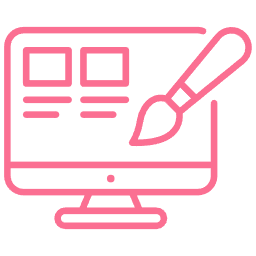
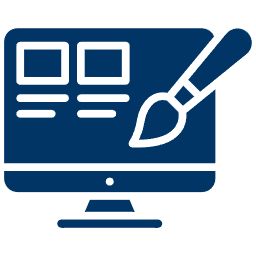
Theme Changed

diff --git a/src/components/sections/Hero.jsx b/src/components/sections/Hero.jsx
@@ -7,7 +7,7 @@ export default function Hero() {
         <div className='w-full flex flex-col lg:flex-row justify-center lg:justify-between items-center mt-10 sm:mt-0'>
             <div className='p-10'>
                 <h1 className='text-3xl font-bold'>
-                    Hi, I'm <span className='text-customPink1'>Fatma Gamal</span>
+                    Hi, I'm <span className='text-customYellow1'>Fatma Gamal</span>
                 </h1>
                 <h2 className='text-2xl font-semibold'>
                     FrontEnd Developer | React.js
@@ -21,15 +21,15 @@ export default function Hero() {
              <div  className='relative  mt-24 sm:mt-36 mr-0 sm:mr-36 w-full'>
                 <div className='flex justify-center items-center '>
                     <div className='group hover:animate-flipX relative flex justify-center items-center'>
-<div className='bg-customPink1 w-52 h-52 lg:w-72 lg:h-72 rounded-full relative'></div>
-                    <div className='bg-customBlue5 w-44 h-44 lg:w-64 lg:h-64 rounded-full absolute'><img src={avatar} alt="" className='w-52 lg:w-80 absolute z-20' style={{ clipPath: "circle(50% at 50% 50%)" }}/>
+<div className='bg-customBlue1 w-52 h-52 lg:w-72 lg:h-72 rounded-full relative'></div>
+                    <div className='bg-[#e7ecef] w-44 h-44 lg:w-64 lg:h-64 rounded-full absolute'><img src={avatar} alt="" className='w-52 lg:w-80 absolute z-20' style={{ clipPath: "circle(50% at 50% 50%)" }}/>
 </div>
                     </div>
                     
 {Array.from({ length: 9 }).map((_, i) => (
   <div
     key={i}
-    className=" absolute bg-[#ffd60a] hover:bg-yellow-200- w-1 h-32 bottom-0 origin-bottom transform animate-pulse "
+    className=" absolute bg-customYellow1 hover:bg-customYellow2 w-1 h-32 bottom-0 origin-bottom transform animate-pulse "
     style={{
       transform: `rotate(${i * (180 / (9 - 1)) - 90}deg) translateY(-150px) `,
       top: "0",
@@ -44,8 +44,8 @@ export default function Hero() {
 
         </div>
         <div className='p-10 flex justify-evenly items-center w-full lg:w-[30%] mt-0 lg:-mt-28'>
-            <a href='/Fatma.pdf' target='_blank' className=" text-gray-800 bg-customBlue5 hover:bg-customBlue1 focus:ring-4 focus:ring-blue-300 font-medium rounded-lg text-sm px-5 py-2.5 me-2 mb-2 dark:bg-blue-600 dark:hover:bg-blue-700 focus:outline-none dark:focus:ring-blue-800">Resume</a>
-            <a href='mailto:fatmagmoubarak@gmail.com' className="text-white bg-[#ffbd00] hover:bg-[#f4d172] focus:ring-4 focus:ring-blue-300 font-medium rounded-lg text-sm px-6 py-2.5 me-2 mb-2 dark:bg-blue-600 dark:hover:bg-blue-700 focus:outline-none dark:focus:ring-blue-800">
+            <a href='/Fatma.pdf' target='_blank' className=" text-white bg-customBlue5 hover:bg-customBlue4 focus:ring-4 focus:ring-blue-300 font-medium rounded-lg text-sm px-5 py-2.5 me-2 mb-2 dark:bg-blue-600 dark:hover:bg-blue-700 focus:outline-none dark:focus:ring-blue-800">Resume</a>
+            <a href='mailto:fatmagmoubarak@gmail.com' className="text-white bg-customYellow1 hover:bg-customYellow2 focus:ring-4 focus:ring-blue-300 font-medium rounded-lg text-sm px-6 py-2.5 me-2 mb-2 dark:bg-blue-600 dark:hover:bg-blue-700 focus:outline-none dark:focus:ring-blue-800">
                 
                 Let's Talk
                 <FaArrowRight className='inline ml-1'/>

diff --git a/src/components/sections/Projects.jsx b/src/components/sections/Projects.jsx
@@ -46,7 +46,7 @@ export default function Projects() {
         <div className="flex justify-center items-center">
             <button
             onClick={viewPrevious}
-            className='w-12 h-12 rounded-full bg-customPink1 flex justify-center items-center hover:transition-transform hover:scale-110 duration-300 hover:bg-customPink3 mt-[5%]'>
+            className='w-12 h-12 rounded-full bg-customBlue5 flex justify-center items-center hover:transition-transform hover:scale-110 duration-300 hover:bg-customBlue4 mt-[5%]'>
                 <FaArrowLeft className="text-white"/>
             </button>
             <AnimatePresence mode="wait">
@@ -62,7 +62,7 @@ export default function Projects() {
                 <h2 className="text-xl font-bold text-center">{currentProject?.title}</h2>
                 <h3 className="text-lg font-semibold mt-3 text-center">{currentProject?.description}</h3>
                 <div className='p-0 sm:p-10 mt-5 sm:mt-0 flex justify-evenly items-center w-full'>
-            <a href={currentProject?.githubLink} target='_blank' rel="noopener noreferrer" className="z-30 text-gray-800 bg-customBlue5 hover:bg-customBlue1 focus:ring-4 focus:ring-blue-300 font-medium rounded-lg text-sm px-5 py-2.5 me-2 mb-2 dark:bg-blue-600 dark:hover:bg-blue-700 focus:outline-none dark:focus:ring-blue-800">GitHub</a>
+            <a href={currentProject?.githubLink} target='_blank' rel="noopener noreferrer" className="z-30 text-white bg-customBlue5 hover:bg-customBlue4 focus:ring-4 focus:ring-blue-300 font-medium rounded-lg text-sm px-5 py-2.5 me-2 mb-2 dark:bg-blue-600 dark:hover:bg-blue-700 focus:outline-none dark:focus:ring-blue-800">GitHub</a>
             <a href={currentProject?.demoLink} target="_blank" rel="noopener noreferrer" className="text-white z-30 bg-[#ffbd00] hover:bg-[#f4d172] focus:ring-4 focus:ring-blue-300 font-medium rounded-lg text-sm px-6 py-2.5 me-2 mb-2 dark:bg-blue-600 dark:hover:bg-blue-700 focus:outline-none dark:focus:ring-blue-800">
                 
                 Watch Demo
@@ -77,7 +77,7 @@ export default function Projects() {
                 
                         <button
                         onClick={viewNext}
-                        className='w-12 h-12 rounded-full bg-customPink1 flex justify-center items-center hover:transition-transform hover:scale-110 duration-300 hover:bg-customPink3 mt-[5%]'>
+                        className='w-12 h-12 rounded-full bg-customBlue5 flex justify-center items-center hover:transition-transform hover:scale-110 duration-300 hover:bg-customBlue4 mt-[5%]'>
                 <FaArrowRight className="text-white"/>
             </button>
         </div>

diff --git a/src/components/sections/Connect.jsx b/src/components/sections/Connect.jsx
@@ -18,11 +18,11 @@ export default function Connect() {
                 <FaArrowRight className='inline ml-1'/>
 
                 </a>
-                <div className="w-[70%] lg:w-[40%] bg-[#ea638c] bg-opacity-50 drop-shadow-xl flex justify-evenly items-center rounded-2xl px-5 py-4 gap-x-1 lg:gap-x-0">
-                    <a href="https://www.facebook.com/share/19c7ZAk116/?mibextid=wwXIfr" target="_blank"><FaFacebook className="inline text-[50px] text-customPink5 hover:text-white"/></a>
-                    <a href="https://www.instagram.com/fatmaa.mubarak?igsh=dGthYmNnaWJveHJ2&utm_source=qr" target="_blank"><FaInstagram className="inline text-[50px] text-customPink5 hover:text-white"/></a>
-                    <a href="https://www.linkedin.com/in/fatma-mubarak-85a46630b" target="_blank"><FaLinkedin className="inline text-[50px] text-customPink5 hover:text-white"/></a>
-                    <a href="https://github.com/FatmaGMubarak" target="_blank"><FaGithub className="inline text-[50px] text-customPink5 hover:text-white"/></a>
+                <div className="w-[70%] lg:w-[40%] bg-customBlue2 bg-opacity-50 drop-shadow-xl flex justify-evenly items-center rounded-2xl px-5 py-4 gap-x-1 lg:gap-x-0">
+                    <a href="https://www.facebook.com/share/19c7ZAk116/?mibextid=wwXIfr" target="_blank"><FaFacebook className="inline text-[50px] text-customBlue5 hover:text-customBlue4"/></a>
+                    <a href="https://www.instagram.com/fatmaa.mubarak?igsh=dGthYmNnaWJveHJ2&utm_source=qr" target="_blank"><FaInstagram className="inline text-[50px] text-customBlue5 hover:text-customBlue4"/></a>
+                    <a href="https://www.linkedin.com/in/fatma-mubarak-85a46630b" target="_blank"><FaLinkedin className="inline text-[50px] text-customBlue5 hover:text-customBlue4"/></a>
+                    <a href="https://github.com/FatmaGMubarak" target="_blank"><FaGithub className="inline text-[50px] text-customBlue5 hover:text-customBlue4"/></a>
 
                 </div>
     </div>

diff --git a/src/components/sections/NavBar.jsx b/src/components/sections/NavBar.jsx
@@ -28,14 +28,14 @@ export default function NavBar() {
   const [menuOpen, setMenuOpen] = useState(false);
   return (
     <>
-<nav className=" fixed w-full z-50 top-0 start-0 h-[10%] bg-[#ff7ea0]">
+<nav className=" fixed w-full z-50 top-0 start-0 h-[10%] bg-[#003566]">
   <div className="max-w-screen-xl flex flex-wrap items-center justify-between mx-auto p-4 w-full">
     <a
       href="https://flowbite.com/"
       className="flex items-center space-x-3 rtl:space-x-reverse"
     >
       
-      <span className="self-center text-2xl font-semibold whitespace-nowrap dark:text-white">
+      <span className="self-center text-2xl font-semibold whitespace-nowrap dark:text-white text-white">
         F.G Portfolio
       </span>
     </a>
@@ -94,7 +94,7 @@ export default function NavBar() {
             onSetActive={()=>setActiveSession(ele.id)}
             onClick={(()=> setActiveSession(ele.id))}
             activeClass="active-link"
-            className={`block py-2 px-3  rounded-sm bg-transparent ${activeSession === ele.id ? `text-customPink5` : `text-customPink3`} cursor-pointer hover:text-customPink5`}
+            className={`block py-2 px-3  rounded-sm bg-transparent ${activeSession === ele.id ? `text-customYellow1` : `text-white`} cursor-pointer hover:text-customYellow1`}
           >
             {ele.title}
           </Link>

diff --git a/src/components/sections/About.jsx b/src/components/sections/About.jsx
@@ -7,11 +7,11 @@ export default function About() {
 <div className="flex">
         <div>
           <div className='flex flex-col h-[100vh] items-center justify-center gap-y-1 pl-10'>
-                <div className='bg-customPink1 w-1 h-[25%] rounded-sm'></div>
-                <div className='bg-customPink1 w-5 h-5 rounded-full'></div>
-                <div className='bg-customPink1 w-1 h-[25%] rounded-sm'></div>
-                <div className='bg-customPink1 w-5 h-5 rounded-full'></div>
-                <div className='bg-customPink1 w-1 h-[25%] rounded-sm'></div>
+                <div className='bg-customBlue1 w-1 h-[25%] rounded-sm'></div>
+                <div className='bg-customBlue1 w-5 h-5 rounded-full'></div>
+                <div className='bg-customBlue1 w-1 h-[25%] rounded-sm'></div>
+                <div className='bg-customBlue1 w-5 h-5 rounded-full'></div>
+                <div className='bg-customBlue1 w-1 h-[25%] rounded-sm'></div>
             </div>
     </div>
     <div className="flex w-full">

diff --git a/src/components/Separator.jsx b/src/components/Separator.jsx
@@ -5,11 +5,11 @@ export default function Separator() {
     <>
 
             <div className='flex items-center justify-center mt-16 gap-x-1'>
-                <div className='bg-customPink1 w-[15%] h-1 rounded-sm'></div>
-                <div className='bg-customPink1 w-5 h-5 rounded-full'></div>
-                <div className='bg-customPink1 w-[15%] h-1 rounded-sm'></div>
-                <div className='bg-customPink1 w-5 h-5 rounded-full'></div>
-                <div className='bg-customPink1 w-[15%] h-1 rounded-sm'></div>
+                <div className='bg-customBlue1 w-[15%] h-1 rounded-sm'></div>
+                <div className='bg-customBlue1 w-5 h-5 rounded-full'></div>
+                <div className='bg-customBlue1 w-[15%] h-1 rounded-sm'></div>
+                <div className='bg-customBlue1 w-5 h-5 rounded-full'></div>
+                <div className='bg-customBlue1 w-[15%] h-1 rounded-sm'></div>
             </div>
 
     

diff --git a/tailwind.config.js b/tailwind.config.js
@@ -7,17 +7,19 @@ content: [
   theme: {
     extend: {
       colors:{
-        customBlue1: "#C5D5EA",
+        customBlue1: "#003566",
         customBlue2: "#759EB8",
-        customBlue3: "#7392B7",
-        customBlue4: "#B3C5D7",
-        customBlue5: "#D8E1E9",
-        customBlue6: "#0083C3",
+        customBlue3: "#014f86",
+        customBlue4: "#2c7da0",
+        customBlue5: "#468faf",
+        customBlue6: "#247ba0",
         customPink1: "#fb6f92",
         customPink2: "#ff8fab",
         customPink3: "#ffb3c6",
         customPink4: "#ffc2d1",
         customPink5: "#ffe5ec",
+        customYellow1: "#ffbd00",
+        customYellow2: "#f4d172",
 
       },
             keyframes: {

diff --git a/src/components/sections/Skills.jsx b/src/components/sections/Skills.jsx
@@ -39,7 +39,7 @@ export default function Skills() {
             return(
                 
                 <div key={index} className=" flex justify-center items-center w-full  ">
-                <div className="bg-[#ea638c] bg-opacity-50 w-[100%] lg:w-[40%] lg:h-[15vh] flex justify-center items-center  rounded-2xl drop-shadow-2xl hover: transition-transform hover:scale-105 duration-300">
+                <div className="bg-customBlue2 bg-opacity-50 w-[100%] lg:w-[40%] lg:h-[15vh] flex justify-center items-center  rounded-2xl drop-shadow-2xl hover: transition-transform hover:scale-105 duration-300">
                     {ele.icon}
                 </div>
                 </div>

diff --git a/src/index.css b/src/index.css
@@ -25,11 +25,13 @@ body {
     min-height: 100vh;
     width: 100%;
     overflow-x: hidden;
-    background-color: #ffe5ec, 0.5;
-    background-image: url("./assets/bg3.png") ;
+    background-color: #e7ecef;
+    /* background-image: url("./assets/bg3.png") ; */
     background-size: 700px;
     background-repeat: repeat;
     animation: moveBackground 30s linear infinite;
+    color: #003566;
+    
 }
 
 @keyframes moveBackground {
